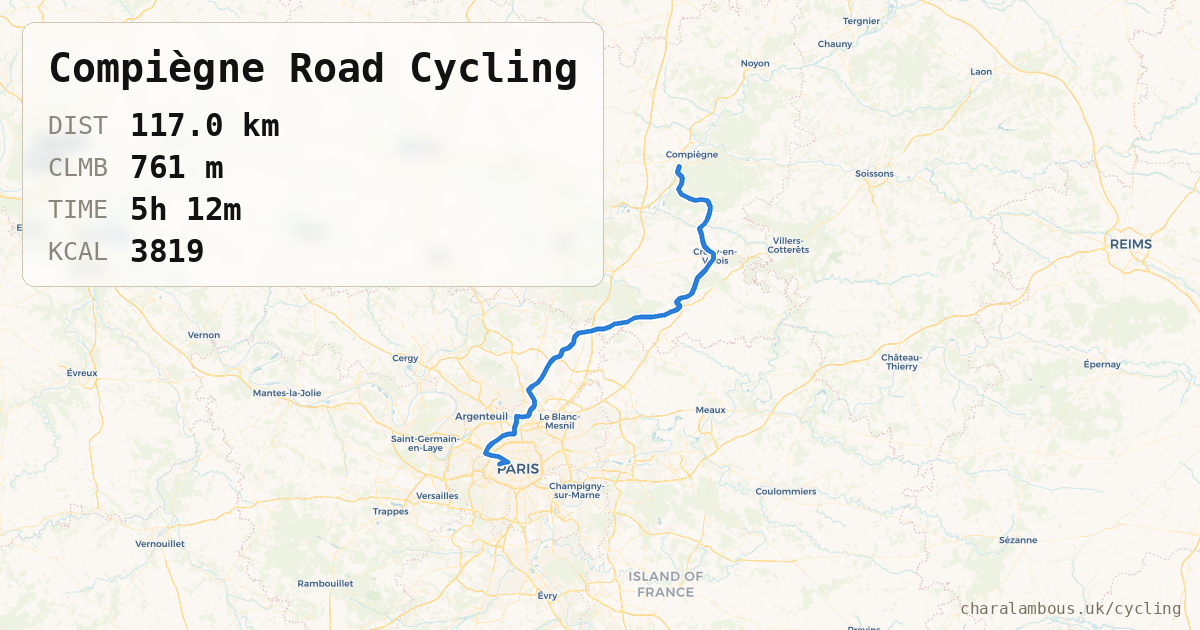
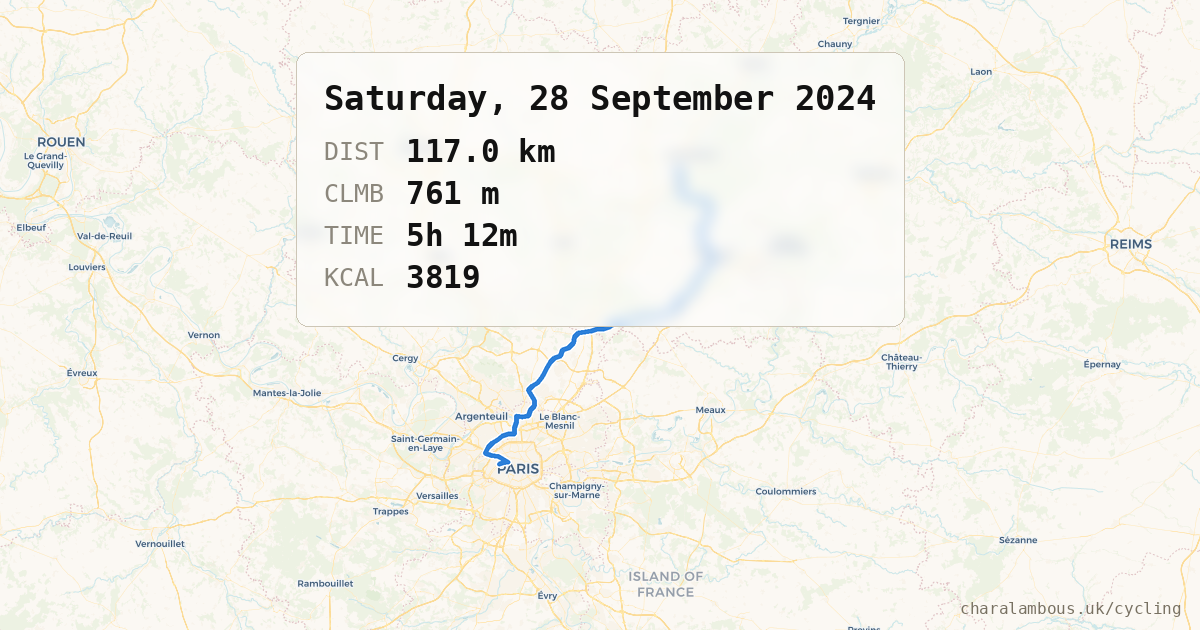
OG card: use the ride date (not the name) as the title, centre the frosted stats panel over the map

diff --git a/scripts/garmin-sync/og_card.py b/scripts/garmin-sync/og_card.py
@@ -85,11 +85,12 @@ def _draw_power(base, power):
     return Image.alpha_composite(base, ov)
 
 
-def _draw_panel(base, name, dist_km, climb_m, duration, calories):
-    """Frosted-glass stats panel: name + DIST/CLMB/TIME/KCAL rows, with the map
-    blurred and lightened behind it so the blue route still shows through."""
+def _draw_panel(base, title, dist_km, climb_m, duration, calories):
+    """Frosted-glass stats panel, centred over the map: the ride date + the
+    DIST/CLMB/TIME/KCAL rows, with the map blurred and lightened behind it so the
+    blue route still shows through."""
     d0 = ImageDraw.Draw(base)
-    f_name = _font(True, 40)
+    f_title = _font(True, 34)
     f_lab = _font(False, 25)
     f_val = _font(True, 31)
 
@@ -103,13 +104,16 @@ def _draw_panel(base, name, dist_km, climb_m, duration, calories):
     if calories:
         rows.append(("KCAL", str(int(round(float(calories))))))
 
-    pad, row_h, name_h, col_gap = 26, 42, 56, 22
+    pad, row_h, title_h, col_gap = 28, 42, 50, 22
     label_w = int(max((d0.textlength(l, font=f_lab) for l, _ in rows), default=0))
     val_w = int(max((d0.textlength(v, font=f_val) for _, v in rows), default=0))
-    content_w = max(int(d0.textlength(name, font=f_name)), label_w + col_gap + val_w)
-    x0, y0 = 22, 22
-    x1 = x0 + content_w + pad * 2
-    y1 = y0 + pad + name_h + len(rows) * row_h + pad - row_h + 30
+    content_w = max(int(d0.textlength(title, font=f_title)), label_w + col_gap + val_w)
+    pw = content_w + pad * 2
+    ph = pad + title_h + len(rows) * row_h + pad
+    x0 = (W - pw) // 2
+    y0 = max(24, int((H * 0.60 - ph) / 2))  # centred in the map area above the graph
+    x1, y1 = x0 + pw, y0 + ph
+    cx = (x0 + x1) / 2
 
     # frosted glass: blur + lighten the map region under the panel
     crop = base.crop((x0, y0, x1, y1)).filter(ImageFilter.GaussianBlur(7)).convert("RGBA")
@@ -120,9 +124,10 @@ def _draw_panel(base, name, dist_km, climb_m, duration, calories):
 
     d = ImageDraw.Draw(base)
     d.rounded_rectangle([x0, y0, x1, y1], radius=12, outline=(205, 198, 182, 255), width=1)
+    d.text((cx, y0 + pad - 2), title, font=f_title, fill=(18, 18, 18, 255), anchor="ma")
+    # rows: the label/value block is centred within the panel
     tx = x0 + pad
-    d.text((tx, y0 + pad - 4), name, font=f_name, fill=(18, 18, 18, 255))
-    ty = y0 + pad + name_h
+    ty = y0 + pad + title_h
     for lab, val in rows:
         cy = ty + row_h / 2
         d.text((tx, cy), lab, font=f_lab, fill=(140, 135, 124, 255), anchor="lm")
@@ -132,7 +137,7 @@ def _draw_panel(base, name, dist_km, climb_m, duration, calories):
     return base
 
 
-def make_og_card(out_path, name, dist_km, climb_m, duration, calories, coords, power):
+def make_og_card(out_path, title, dist_km, climb_m, duration, calories, coords, power):
     """coords: (lat, lon) points.  power: power_profile list (may hold None)."""
     m = StaticMap(W, H, url_template=TILE_URL, padding_x=70, padding_y=80)
     if coords and len(coords) > 1:
@@ -144,5 +149,5 @@ def make_og_card(out_path, name, dist_km, climb_m, duration, calories, coords, p
         m.add_line(Line(lonlat, BLUE, 5))
     img = m.render().convert("RGBA")
     img = _draw_power(img, power)
-    img = _draw_panel(img, name, dist_km, climb_m, duration, calories)
+    img = _draw_panel(img, title, dist_km, climb_m, duration, calories)
     img.convert("RGB").save(out_path)

diff --git a/scripts/garmin-sync/hugo_writer.py b/scripts/garmin-sync/hugo_writer.py
@@ -297,9 +297,10 @@ def write_activity(activity, gpx_xml, streams=None):
     # 4. Open Graph preview card for rich link unfurls
     if make_og_card:
         try:
+            og_title = dt.strftime("%A, ") + str(dt.day) + dt.strftime(" %B %Y")
             make_og_card(
                 str(OG_DIR / f"{activity_id}.png"),
-                name, distance_km, elevation_m, duration_fmt, calories,
+                og_title, distance_km, elevation_m, duration_fmt, calories,
                 gpx_coords(simplified_gpx), profiles.get("power_profile") or [],
             )
         except Exception as e:
